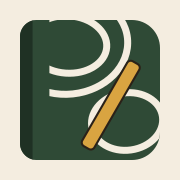
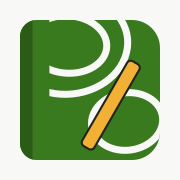
Fresh Green theme from the design system
Token values in globals.css, the app icons and the last-resort error page.

diff --git a/src/app/globals.css b/src/app/globals.css
@@ -1,32 +1,35 @@
 @import "tailwindcss";
 
 /*
- * Trailnotes design tokens (from Claude Design: "Trailnotes Brand" + "Trail Guide Branded").
+ * Trailnotes design tokens: the "Fresh Green" theme (Claude Design: "Trailnotes Design System",
+ * screens in "Trail Guide Branded"). The names in the comments are the design's own.
  * Components use these via Tailwind utilities (bg-paper, text-bark, font-display…)
  * or var(--color-*) in inline styles. Never hardcode hex values in components.
+ * The token names date from the earlier paper theme; a theme change only changes the values here.
  */
 @theme {
   /* Brand palette */
-  --color-forest: #2f4a36; /* Primary · Forest Ink */
-  --color-bark: #6b4a32; /* Secondary · Bark */
-  --color-ochre: #d9a441; /* Accent · Ochre */
-  --color-paper: #f4ede0; /* Background · Paper */
-  --color-graphite: #2a2118; /* Text · Graphite */
+  --color-forest: #3a7a1e; /* Primary · Pine: buttons, links, active */
+  --color-bark: #5e655a; /* Secondary · Slate: secondary text, metadata */
+  --color-ochre: #f2b134; /* Accent · Sunny: highlights, badges */
+  --color-paper: #f8f9f6; /* Background · Page */
+  --color-graphite: #1f2421; /* Text · Ink */
 
   /* Surfaces & lines */
-  --color-card: #fbf7ee;
-  --color-paper-deep: #f8f1e1;
-  --color-frame: #efe6d3; /* component frame header */
-  --color-chrome: #e4d8be;
-  --color-stripe: #ede3cb; /* placeholder stripes */
-  --color-highlight: #f1e5c6; /* selected row / active filter */
-  --color-line: #d8cdb7;
-  --color-line-strong: #c9bb9b;
+  --color-card: #ffffff; /* Surface: cards, popovers */
+  --color-paper-deep: #f9faf7;
+  --color-frame: #f4f6f1; /* Tint: component frame header, subtle fills */
+  --color-chrome: #f0f3ec; /* Chrome: toolbars, placeholders */
+  --color-stripe: #eef1e9; /* placeholder stripes */
+  --color-highlight: #e6f2db; /* selected row / active filter */
+  --color-line: #e1e5da; /* Border */
+  --color-line-strong: #c3c9b9; /* Border strong: dividers, inputs */
 
-  /* Map pins — navigation pins are flat, safety pins get a double halo */
-  --color-pin-start: #2f4a36;
+  /* Map pins: fixed across themes, except the trailhead, which is the primary colour.
+     Navigation pins are flat, safety pins get a double halo */
+  --color-pin-start: var(--color-forest);
   --color-pin-turn: #d9731f;
-  --color-pin-note: var(--color-bark);
+  --color-pin-note: #6b4a32;
   --color-pin-viewpoint: #7b4fa8;
   --color-pin-water: #1f78b4;
   --color-pin-bailout: #c23b2e;
@@ -85,7 +88,7 @@
   }
 }
 
-/* Mapbox controls tuned to the paper theme */
+/* Mapbox controls tuned to the theme */
 .mapboxgl-ctrl-group {
   background: var(--color-card) !important;
   border: 1px solid var(--color-line);

diff --git a/src/app/global-error.tsx b/src/app/global-error.tsx
@@ -14,15 +14,15 @@ export default function GlobalError({ error, retry }: { error: Error & { digest?
 
   return (
     <html lang="en">
-      <body style={{ margin: 0, minHeight: "100dvh", display: "flex", alignItems: "center", justifyContent: "center", background: "#f4ede0", color: "#2a2118", fontFamily: "system-ui, sans-serif" }}>
+      <body style={{ margin: 0, minHeight: "100dvh", display: "flex", alignItems: "center", justifyContent: "center", background: "#f8f9f6", color: "#1f2421", fontFamily: "system-ui, sans-serif" }}>
         <title>Something went wrong · Trailnotes</title>
         <main role="alert" style={{ maxWidth: 420, padding: 24, textAlign: "center" }}>
-          <h1 style={{ color: "#2f4a36", fontSize: 28, margin: 0 }}>Trailnotes couldn&apos;t load</h1>
+          <h1 style={{ color: "#3a7a1e", fontSize: 28, margin: 0 }}>Trailnotes couldn&apos;t load</h1>
           <p style={{ fontSize: 17, lineHeight: 1.6 }}>Something went wrong on our side. It&apos;s usually temporary: try again in a moment.</p>
-          <button type="button" onClick={() => retry()} style={{ cursor: "pointer", border: 0, borderRadius: 8, padding: "10px 20px", fontSize: 18, background: "#2f4a36", color: "#f4ede0" }}>
+          <button type="button" onClick={() => retry()} style={{ cursor: "pointer", border: 0, borderRadius: 8, padding: "10px 20px", fontSize: 18, background: "#3a7a1e", color: "#f8f9f6" }}>
             Try again
           </button>
-          {error.digest && <p style={{ fontFamily: "monospace", fontSize: 12, color: "#6b4a32" }}>Reference: {error.digest}</p>}
+          {error.digest && <p style={{ fontFamily: "monospace", fontSize: 12, color: "#5e655a" }}>Reference: {error.digest}</p>}
         </main>
       </body>
     </html>

diff --git a/scripts/make-icons.ts b/scripts/make-icons.ts
@@ -8,7 +8,7 @@ import { readFile, writeFile } from "node:fs/promises";
 import sharp from "sharp";
 
 const APP = "src/app";
-const PAPER = "#F4EDE0"; // --color-paper: iOS fills a transparent home-screen icon with black
+const PAPER = "#F8F9F6"; // --color-paper: iOS fills a transparent home-screen icon with black
 
 async function main() {
   const svg = await readFile(`${APP}/icon.svg`);

diff --git a/docs/knowledge/current.md b/docs/knowledge/current.md
@@ -11,7 +11,7 @@ Trailnotes is a photo-by-photo hiking guide site. Each hike is an MDX guide whos
   - Storage: the public bucket `hikes` (photos).
   - Tables `hikes`, `hike_revisions`, `editors`, defined in TypeScript in `src/db/schema.ts` (Drizzle). Migrations up to 2026-10-08 are the SQL files in `supabase/migrations/`; `drizzle/0000_baseline.sql` describes their result (checked identical with `pg_dump`) and is recorded as applied in the live database (`drizzle.__drizzle_migrations`). New ones come from `pnpm db:generate` into `drizzle/` and are applied before the code that needs them (see Gotchas). Row-level security is on with explicit "server only" policies: the public key and signed-in browser sessions can read and write nothing; only the server's service-role key can.
   - The three guides are seeded. Auth: Google provider on, sign-ups closed, one editor (the owner).
-- **Design source:** Claude Design project `87e465cf-146d-4327-9930-d7562360f28b`. *Trail Guide Branded.dc.html* has the screens: 1 gallery, 2 guide page, 3a authoring view, 4a component sheet. It's readable from a session with the `DesignSync` tool (`list_files` / `get_file`) when the owner asks for it; inline styles map 1:1 onto the tokens in `globals.css`.
+- **Design source:** Claude Design project `87e465cf-146d-4327-9930-d7562360f28b`. *Trailnotes.dc.html* is the index; *Trailnotes Design System.dc.html* has the palette and type, and *Trail Guide Branded.dc.html* the screens: 1 gallery, 2 guide page, 3a authoring view, 4a component sheet. The theme is **Fresh Green** (since 2026-10-08; the paper theme before it is in the project's `archive/`). It's readable from a session with the `DesignSync` tool (`list_files` / `get_file`) when the owner asks for it; inline styles map 1:1 onto the tokens in `globals.css`.
 
 ## Baseline hike: Strawberry Peak
 
@@ -102,6 +102,7 @@ Environment switches: `CONTENT_STORE` (`local` default, `postgres`), `EDITOR_AUT
 - **Commit straight to `main`.** It's the owner's choice, so CI and a local `pnpm build` are the safety net.
 - **Pins come from the GPX, photos illustrate them.** Owner, 2026-10-01: not every photo becomes a node. Use one photo per stretch of trail, and no two pins showing the same view. Several photos per point is planned for v3/v4.
 - **Timestamps stay private.** `track.json` keeps only `[lng, lat, ele]`, and pins have no capture time: `pnpm ingest` uses it to order the photos and doesn't store it, and the pin schema has no such field, so one left in a stored pin is dropped when the pins are read. (Until 2026-10-07 pins carried `takenAt` and it reached the public page. The stored guides were cleaned that day; old `hike_revisions` rows and the repo's git history still hold it: see [todo.md](todo.md).) Pace and stop analysis uses the local GPX; only derived facts (grades, "pace drops 3–4×") go into published text.
+- **A theme is the values in `globals.css`, not the token names.** The names (`forest`, `bark`, `paper`, `ochre`, `graphite`) come from the paper theme; under Fresh Green they hold Pine, Slate, Page, Sunny and Ink (the comments in `globals.css` give the design's names). Pin colours are fixed across themes, except the trailhead (the primary colour); the note pin keeps its brown, because the design has no note pin and slate would look like the landmark pin. Three places can't read the tokens and repeat the hex values: `src/app/icon.svg` (then `pnpm icons`), `global-error.tsx` and `scripts/make-icons.ts`.
 - **Turn pins use dark ink.** White on the turn colour was 3.27:1; `PIN_STYLES[*].ink` sets the glyph colour per type so each is at least 4.5:1.
 - **Scroll performance (2026-09-30):** measured on a production build in headless Chrome: about 3% dropped frames and about 16 ms p95 scroll latency. An IntersectionObserver scrollspy, mount hysteresis and deferred map camera moves showed no measurable gain, so they were dropped. Reproduce on the reported page before optimising again.
 

diff --git a/docs/knowledge/changelog.md b/docs/knowledge/changelog.md
@@ -8,6 +8,7 @@ Plan: [v0.1-plan.md](v0.1-plan.md).
 
 - **Licence** (`49169d8`): MIT for the code; guides and photos all rights reserved.
 - **Dependencies:** next 16.3.6 → 16.3.8 (two high and four lower advisories: image-optimisation SSRF, ISR cache poisoning, metadata-route disclosure), `source-map-js` 1.2.2 (high, build-time), and patch releases of mdxeditor, vitest and jsdom. `pnpm audit --prod` is clean on 2026-10-08. Minor and major releases (next 16.4, react 19.3, mapbox-gl 3.32, TypeScript 7, ESLint 10) are left for later.
+- **Fresh Green theme** (2026-10-08): the palette from the design project's *Trailnotes Design System* replaces the paper theme: green primary, white cards on an off-white page, slate secondary text, a yellow accent. Only the token values changed, plus the app icons and the last-resort error page. Text pairs were checked at 4.5:1 or better (the lowest is primary on highlight, 4.54).
 - **Live on Drizzle** (2026-10-08): migrations `0001` and `0002` applied to the live database with `pnpm db:migrate`, then `fd626b3` and `4d66750` went to `main` (PR #1, rebased). Checked afterwards: Strawberry Peak's published copy equals its working copy, the two drafts have no `draft:` line, `save_hike`/`create_hike` are gone, every stored guide passes the save gate, the guide page is 200, `/api/health` says `"store":"postgres"`, and signed out the editor and its API are 404.
 - **Draft and published copies** (`4d66750`)**:** the editor saves a working copy and the site shows the published copy, which changes only on Publish ("Publish changes" when they differ); Unpublish asks first. The `draft` frontmatter flag is retired. `pnpm content seed/pull/check` handle both copies.
 - **Drizzle everywhere** (`fd626b3`)**:** the supabase-js guide store, `save_hike` and `create_hike` are gone (`CONTENT_STORE` is `local` or `postgres`); the editors lookup and `pnpm editors` use Drizzle too, so the site no longer needs the Supabase service-role key.

diff --git a/docs/knowledge/todo.md b/docs/knowledge/todo.md
@@ -21,6 +21,8 @@ From the audit of 2026-10-06 ([changelog.md](changelog.md)). The code fixes are 
 
 None changes behaviour; each needs the tests named first.
 
+- [ ] Colour token names no longer describe their colours (`bark` is slate grey, `paper` is off-white, `ochre` is yellow) since the Fresh Green theme of 2026-10-08. A rename to the design's names (pine, slate, page, sunny, ink) is mechanical but touches every component. `scripts/make-sample-photos.ts` still draws its placeholders in the paper palette.
+
 - [ ] One builder for a new hike: `scripts/import-gpx.ts` and `scripts/ingest-photos.ts` hand-write the YAML that `src/lib/new-hike.ts` builds (check `pnpm ingest --dry-run` output).
 - [ ] One guard helper for the two editor API routes (the chain editor → origin → size → rate limit → JSON is written twice). `routes.test.ts` now covers both, so it's safe to extract.
 - [ ] Editor form primitives are copied four times (the input class, `Field`, the number helper): `DetailsForm`, `ComponentSettings`, `PinsView`, `NewHikeForm`. `PinsView` now has `RequiredText` and `NumberDraft`, which the others could use.
